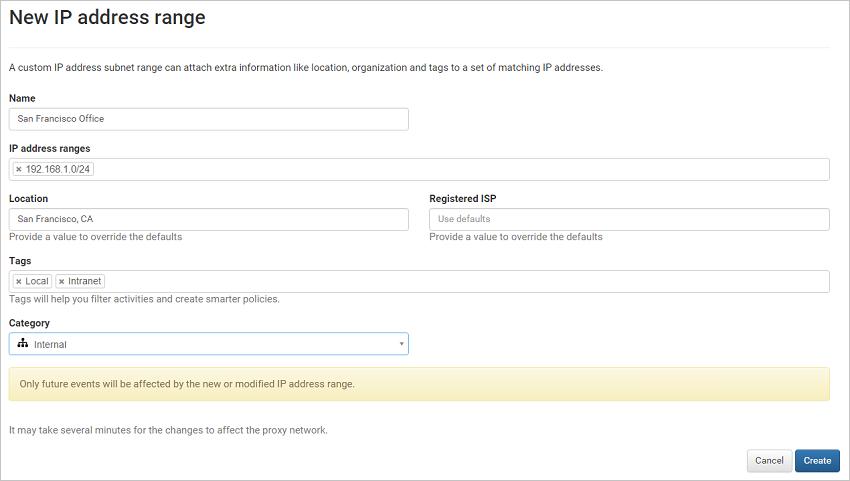
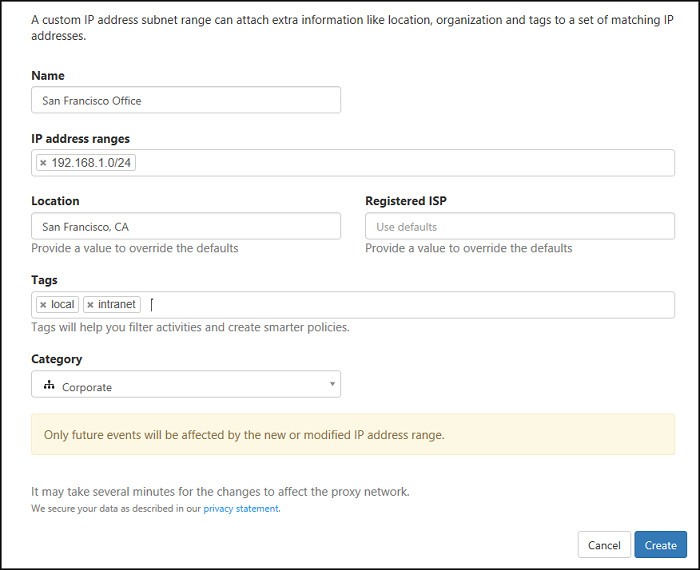
latest update feb open issues

Changed region(s): [[0.0, 0.0, 1.0, 1.0], [0.48, 0.343, 0.81, 0.499], [0.0, 0.1247, 0.72, 0.1871]]

diff --git a/CloudAppSecurityDocs/governance-actions.md b/CloudAppSecurityDocs/governance-actions.md
@@ -7,7 +7,7 @@ keywords:
 author: rkarlin
 ms.author: rkarlin
 manager: mbaldwin
-ms.date: 1/23/2017
+ms.date: 2/19/2017
 ms.topic: article
 ms.prod:
 ms.service: cloud-app-security
@@ -27,9 +27,40 @@ ms.suite: ems
 ---
 
 # Govern
+Governance enables you to control what your users do, in real time, across apps. 
+For discovered apps, you can govern users by exporting a block script to your firewall or third-party DLP solution.
+For connected apps, you can apply governance actions to files or activities.
 
-## File governance actions  
-The following governance actions can be taken either on a specific file, user or from a specific policy.
+## Export a block script to govern discovered apps
+
+Use the following procedure to export a block script from Cloud App Security to you to block use of discovered apps from your firewall or third-party DLP solution:
+
+1. In the Cloud Discovery dashboard, tag any apps you want to block as **Unsanctioned**.
+
+   ![Tag as unsanctioned](./media/tag-as-unsanctioned.png)  
+
+2. In the title bar, click on the three dots and select **Generate block script...**. 
+
+   ![Generate block script](./media/generate-block-script.png)  
+
+3. In **Generate block script**, select the appliance you want to generate the block script for. 
+
+   ![Generate block script pop up](./media/generate-block-script-popup.png)  
+
+4. Then, click the Generate script button. This will create a block script for all your unsanctioned apps. By default, the file will be named with the date on which it was exported and the appliance type you selected, for example *2017-02-19_CAS_Fortigate_block_script.txt* 
+
+   ![Generate block script button](./media/generate-block-script-button.png)  
+
+5. Import the file created to your relevant firewall or DLP solution.
+
+
+## Using governance actions to govern connected apps
+
+Governance actions are integrated actions you can run on files or activities directly from Cloud App Security to control what your users do, in real time, across connected apps. 
+
+### File governance actions  
+
+The following governance actions can be taken for connected apps either on a specific file, user or from a specific policy.
   
 -   Notifications  
   
@@ -69,7 +100,7 @@ The following governance actions can be taken either on a specific file, user or
 ![policy_create alerts](./media/policy_create-alerts.png "policy_create alerts")  
   
  
-## Activity governance actions  
+### Activity governance actions  
 
 - Notifications  
   
@@ -92,7 +123,7 @@ The following governance actions can be taken either on a specific file, user or
      ![activity policy ref6](./media/activity-policy-ref6.png "activity policy ref6")  
   
 
-## Governance conflicts
+### Governance conflicts
 
 After creating multiple policies, a situation may arise in which the governance actions in multiple policies overlap. In this case, Cloud App Security will process the governance actions as follows:
 
@@ -100,7 +131,7 @@ After creating multiple policies, a situation may arise in which the governance 
 - If the actions are completely unrelated (for example, **Notify owner** and **Make private**). Both actions will take place.
 - If the actions conflict, (for example **Change owner to user A** and **Change owner to user B**), different results may result from every match. It is important to change your policies to prevent conflicts because they may result in unwanted changes in the drive that will be hard to detect.
 
-## Governance log
+### Governance log
 The Governance log provides a status record of each task that you set Cloud App Security to run, including both manual and automatic tasks. These tasks include tasks that you set in policies, governance actions that you set on files and users, and any other action you set Cloud App Security to take. The Governance log also provides information about the success or failure of these actions. You can choose to retry or revert some of the governance actions from the Governance log. 
 
 The following is the full list of actions the Cloud App Security portal enables you to take. These are enabled in various places throughout the console as described in the **Location** column. Each governance action taken is listed in the Governance Log.

diff --git a/CloudAppSecurityDocs/what-is-cloud-app-security.md b/CloudAppSecurityDocs/what-is-cloud-app-security.md
@@ -7,7 +7,7 @@ keywords:
 author: rkarlin
 ms.author: rkarlin
 manager: mbaldwin
-ms.date: 1/23/2017
+ms.date: 2/19/2017
 ms.topic: article
 ms.prod:
 ms.service: cloud-app-security
@@ -32,7 +32,7 @@ ms.suite: ems
 
 Moving to the cloud increases flexibility for employees and reduces IT cost, but it also introduces new challenges and complexities for keeping your organization secure. To be able to get the full benefit of cloud applications, an IT team must find the right balance of supporting access while maintaining control, to protect critical data.  
 
-Cloud App Security is a critical component of the Microsoft Cloud Security stack. It's a comprehensive solution that can help your organization as you move to take full advantage of the promise of cloud applications, but keep you in control, through improved visibility into activity. It also helps increase the protection of critical data across cloud applications. With tools that help uncover shadow IT, assess risk, enforce policies, investigate activities, and stop threats, your organization can more safely move to the cloud while maintaining control of critical data.  
+Cloud App Security is a critical component of the Microsoft Cloud Security stack. It's a comprehensive solution that can help your organization as you move to take full advantage of the promise of cloud applications, but keep you in control, through improved visibility into activity. It also helps increase the protection of critical data across cloud applications. With tools that help uncover shadow IT, assess risk, enforce policies, investigate activities, and stop threats, your organization can more safely move to the cloud while maintaining control of critical data. 
 
 ## The Cloud App Security framework  
 
@@ -51,9 +51,12 @@ Cloud App Security integrates visibility with your cloud by
 -   using easy-to-deploy app connectors that take advantage of provider APIs, for visibility and governance of apps that you connect to.  
 -   helping you have continuous control by setting, and then continually fine-tuning, policies.  
 
-![Cloud App Security architecture](./media/architecture.png)  
+![Cloud App Security architecture diagram](./media/architecture.png)  
 
-### Data retention  
+### Data retention & Compliance
+
+Cloud App Security is officially certified with Microsoft Compliance for ISO, HIPAA, CSA STAR, EU model clauses and more. To see the full list of certifications go to [Microsoft Compliance Offerings] (https://go.microsoft.com/fwlink/?linkid=842039) and select Cloud App Security.  
+
 When Cloud App Security performs content inspection, data privacy is enforced. The file content is not stored in the Cloud App Security database; only the metadata of the file records and any violations that were identified are stored in the Cloud App Security database. For more information about data retention, see our [privacy policy](http://go.microsoft.com/fwlink/?LinkId=512132) and the [Microsoft Trust Center](https://www.microsoft.com/TrustCenter/Privacy/You-are-in-control-of-your-data).
 Cloud App Security retains data as follows:
 Cloud App Security retains data as follows: 

diff --git a/CloudAppSecurityDocs/general-setup.md b/CloudAppSecurityDocs/general-setup.md
@@ -7,7 +7,7 @@ keywords:
 author: rkarlin
 ms.author: rkarlin
 manager: mbaldwin
-ms.date: 1/23/2017
+ms.date: 2/13/2017
 ms.topic: get-started-article
 ms.prod:
 ms.service: cloud-app-security
@@ -112,20 +112,22 @@ In the menu bar, click the settings icon ![settings icon](./media/settings-icon.
   
 5.  To **Tag** the activities from these IP addresses enter a tag. Entering a word into the box creates the tag. After you already have a configured tag you can easily add it to additional IP ranges by choosing it from the list. You can add as many IP tags as you want for each range. IP tags can be used when building policies.  In addition to the IP tags you configure, Cloud App Security has built-in tags that are not configurable. You can see the list of tags under the [IP tags filter](activity-filters.md).  
   
-6.  **IP categories** are used to easily recognize activities from interesting IP addresses. The categories are available in the portal yet require user configuration to determine which IP addresses are included in each category, except for the "Risky" category which includes two IP tags - Anonymous proxy and Tor.  
+6.  **IP categories** are used to easily recognize activities from interesting IP addresses. The categories are available in the portal yet require user configuration to determine which IP addresses are included in each category. The **Risky** category and **Cloud provider** categories automatically include built-in IP tags such as Anonymous proxy and Tor that dynamically change based on the Microsoft Security Graph, and Microsoft Azure and other cloud infrastractures.  
   
      The following IP categories are available:  
   
+    -   **Corporate**: these should be all the IP addresses of your corporate network, your branch offices and your Wi-Fi roaming addresses. 
+   
     -   **Administrative**: these should be all the IP addresses of your admins.  
-  
-    -   **Internal**: these should be all the IP addresses of your internal network, your branch offices and your Wi-Fi roaming addresses.  
-  
-    -   **Risky**: these should be any IP addresses that you consider risky. They can include suspicious IP addresses you've seen in the past, IP addresses in your competitors' networks, etc.  
-  
+   
     -   **VPN**: these should be any IP addresses you use for remote workers.  
   
-    -   **Cloud proxy**: this should be the IP address of your proxy in the cloud.  
-  
+    -   **Cloud provider: this should be the IP address of your provider in the cloud.  
+
+    -   **Risky**: these should be any IP addresses that you consider risky. They can include suspicious IP addresses you've seen in the past, IP addresses in your competitors' networks, etc. 
+
+    - **Other**: if none of the other IP categories apply, choose other.
+
 7.  When you are done, click **Create**.  
   
      ![newipaddress range](./media/newipaddress-range.png "newipaddress range")  

diff --git a/CloudAppSecurityDocs/azip-integration.md b/CloudAppSecurityDocs/azip-integration.md
@@ -7,7 +7,7 @@ keywords:
 author: rkarlin
 ms.author: rkarlin
 manager: mbaldwin
-ms.date: 1/15/2017
+ms.date: 2/13/2017
 ms.topic: article
 ms.prod:
 ms.service: cloud-app-security
@@ -45,7 +45,7 @@ You are probably familiar with file classification labels in [Azure Information 
 2. Cloud App Security then scans the files for classification labels, as follows:
     a. If you enabled automatic scan (see below), all new or modified files will be added to the scan queue.
     b. If you set a file policy (see below) to search for classification labels, these files will be added to the scan queue for classification labels.
-3. As noted above, these scans are for the classification labels discovered in the initial scan Cloud App Security performs to see which classification labels are used in your tenant. External labels, classification labels set by someone external to your tenant, are added to the list of classification labels. If you don't want to scan for these, select the **Ignore Azure Information Protection classification labels from other tenants** checkbox (see below).
+3. As noted above, these scans are for the classification labels discovered in the initial scan Cloud App Security performs to see which classification labels are used in your tenant. External labels, classification labels set by someone external to your tenant, are added to the list of classification labels. If you don't want to scan for these, select the **Only scan files for Azure Information Protection classification labels from this tenant** checkbox (see below).
 4. After you enable Azure Information Protection on Cloud App Security, all new files that are added to Office 365 will be scanned for classification labels as well.
 
 ## How to integrate Azure Information Protection with Cloud App Security

diff --git a/CloudAppSecurityDocs/working-with-cloud-discovery-data.md b/CloudAppSecurityDocs/working-with-cloud-discovery-data.md
@@ -1,13 +1,13 @@
 ---
 # required metadata
 
-title: Customize Cloud Discovery data to find risky behavior | Microsoft Docs
+title: Use Cloud Discovery data to detect risky behavior | Microsoft Docs
 description: This topic provides instructions for how to work with Cloud Discovery data, including working with the app risk score.
 keywords:
 author: rkarlin
 ms.author: rkarlin
 manager: mbaldwin
-ms.date: 1/23/2017
+ms.date: 2/19/2017
 ms.topic: article
 ms.prod:
 ms.service: cloud-app-security
@@ -26,7 +26,7 @@ ms.suite: ems
 
 ---
 
-# Customize Cloud Discovery
+# Working with Cloud Discovery
 ## Review the Cloud Discovery Dashboard
 
 The Cloud Discovery dashboard is designed to give you more insight into how cloud apps are being used in your organization. It provides an at-a-glance overview of what kinds of apps are being used, your open alerts, the risk levels of apps in your organization. It also shows you who your top app users are and provides an App Headquarter location map. The Cloud Discovery Dashboard has many options for filtering the data, to allow you to generate specific views, depending on what you're most interested in, and easy-to-understand graphics to give you the full picture at a glance.

diff --git a/CloudAppSecurityDocs/TOC.md b/CloudAppSecurityDocs/TOC.md
@@ -8,7 +8,6 @@
 ### [Create snapshot Cloud Discovery reports](create-snapshot-cloud-discovery-reports.md)
 ### [Configure automatic log upload for continuous reports](configure-automatic-log-upload-for-continuous-reports.md)
 ### [Anonymize Cloud Discovery data](cloud-discovery-anonymizer.md)
-### [Customize Cloud Discovery](working-with-cloud-discovery-data.md)
 ## [Connect apps](enable-instant-visibility-protection-and-governance-actions-for-your-apps.md)
 ### [Connect Box](connect-box-to-microsoft-cloud-app-security.md)
 ### [Connect Google Apps](connect-google-apps-to-microsoft-cloud-app-security.md)
@@ -20,6 +19,7 @@
 ### [Connect Salesforce](connect-salesforce-to-microsoft-cloud-app-security.md)
 # Use
 ## [Daily activities to protect your cloud environment](daily-activities-to-protect-your-cloud-environment.md)
+## [Work with Cloud Discovery](working-with-cloud-discovery-data.md)
 ## [Investigate](investigate.md)
 ### [Built-in report reference](built-in-report-reference.md)
 ### [Files](file-filters.md)

diff --git a/CloudAppSecurityDocs/connect-servicenow-to-microsoft-cloud-app-security.md b/CloudAppSecurityDocs/connect-servicenow-to-microsoft-cloud-app-security.md
@@ -7,7 +7,7 @@ keywords:
 author: rkarlin
 ms.author: rkarlin
 manager: mbaldwin
-ms.date: 2/5/2017
+ms.date: 2/13/2017
 ms.topic: get-started-article
 ms.prod:
 ms.service: cloud-app-security
@@ -32,7 +32,7 @@ This section provides instructions for connecting Cloud App Security to your exi
 ## How to connect ServiceNow to Cloud App Security  
   
 > [!NOTE]  
->  Cloud App Security supports ServiceNow versions of Eureka and Fiji. In order to connect ServiceNow with Cloud App Security, you must have the role **Admin** and make sure the ServiceNow instance supports API access.  
+>  Cloud App Security supports ServiceNow versions of Eureka and Fiji. In order to connect ServiceNow with Cloud App Security, you must have the role **Admin** and make sure the ServiceNow instance supports API access.  For more information refer to the [ServiceNow Product Documentation](http://wiki.servicenow.com/index.php?title=Base_System_Roles#gsc.tab=0).
   
 1.  Log on with an Admin account to your ServiceNow account.  
   

diff --git a/CloudAppSecurityDocs/anomaly-detection-policy.md b/CloudAppSecurityDocs/anomaly-detection-policy.md
@@ -7,7 +7,7 @@ keywords:
 author: rkarlin
 ms.author: rkarlin
 manager: mbaldwin
-ms.date: 1/23/2017
+ms.date: 2/19/2017
 ms.topic: article
 ms.prod:
 ms.service: cloud-app-security
@@ -68,6 +68,8 @@ To configure an anomaly detection policy:
     -   **Impossible travel**: Is a user logging in from Denver and ten minutes later logging in from Paris?  
   
     -   **Device and user agent**: Is there activity from an unrecognized or unmanaged device?  
+
+    -   **Activity rate**: Is there suddenly a lot of activity on a particular app? Are there large downloads or deletes, or mass number of files shared or a lot of unexpected admin activity?
   
      You can use these parameters to define complex scenarios, for example, to exclude your office's IP range from the considered risk factors for anomaly detection, create a specific "office IP" tag and filter the range out of the considered parameters. To then exclude the range you created from the admin activity anomaly detection:  
   
